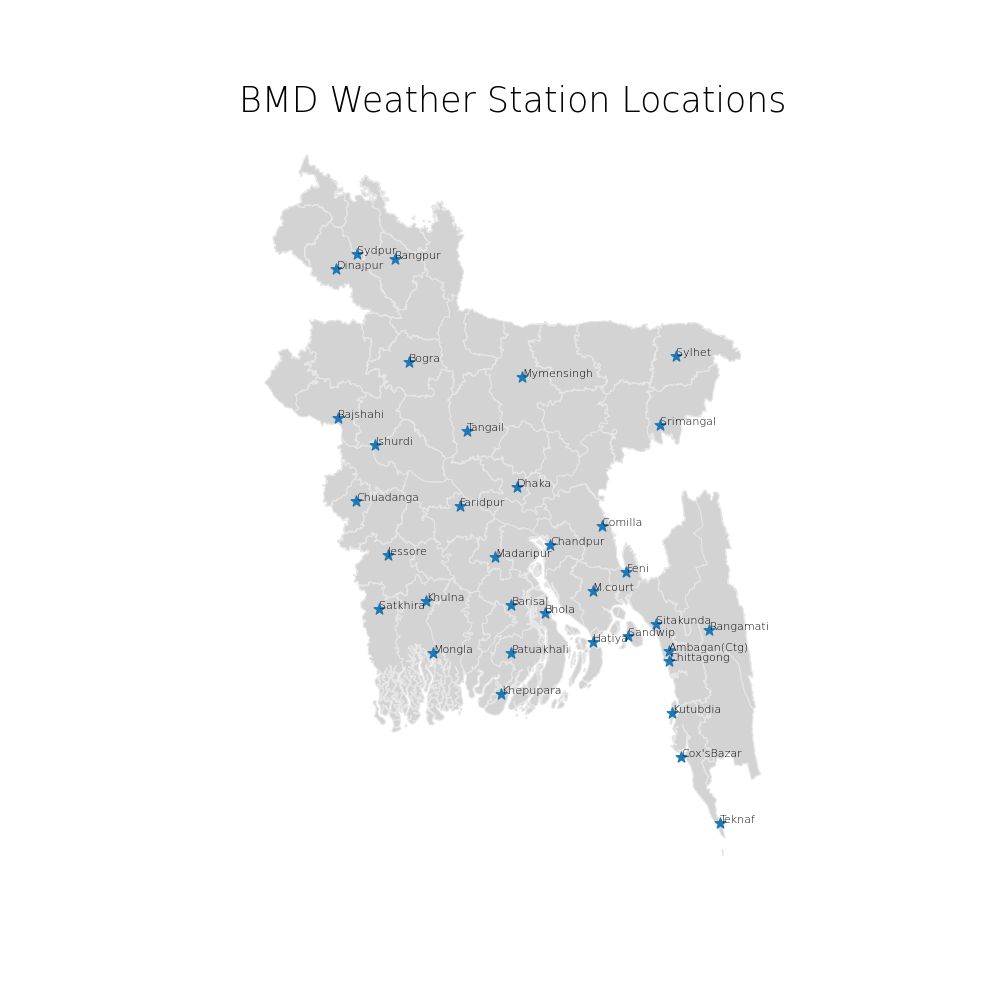
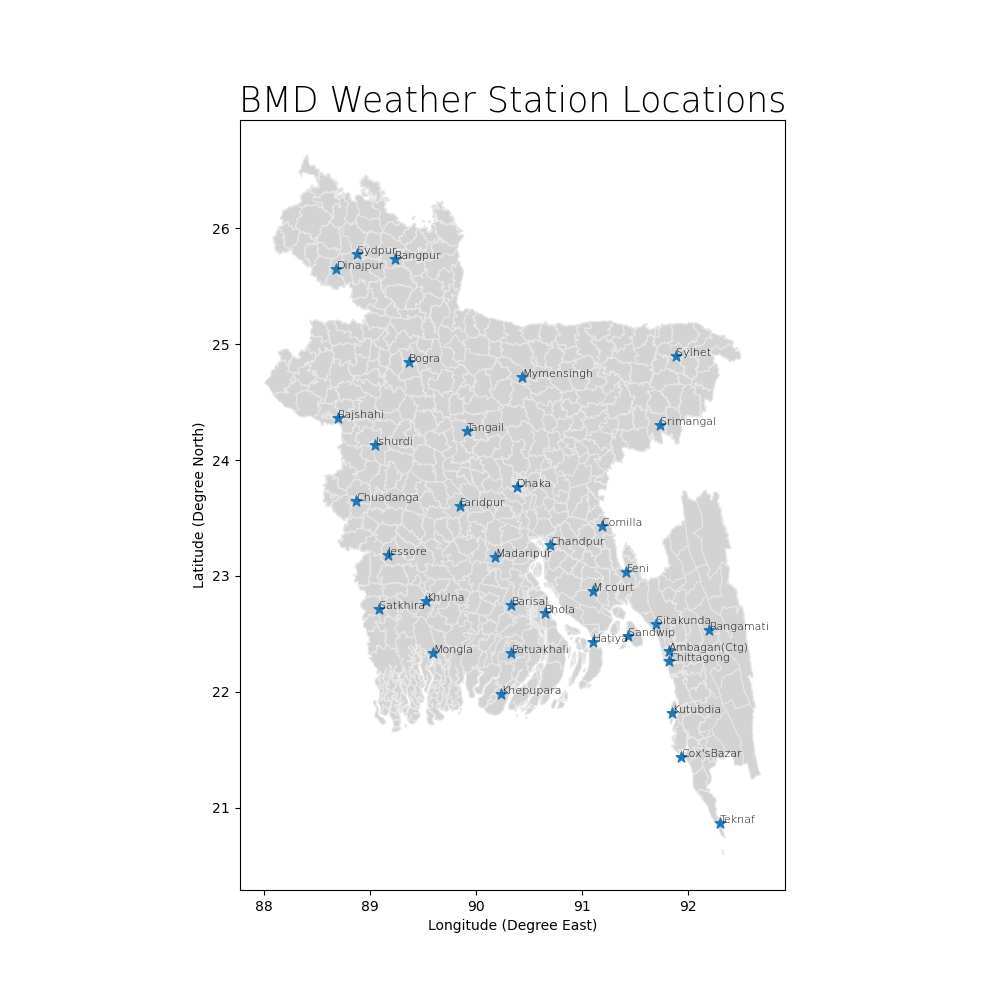
IDW

diff --git a/calculate_IDW_interpolation.py b/calculate_IDW_interpolation.py
@@ -1,0 +1,196 @@
+import numpy as np
+import matplotlib.pyplot as plt
+from decimal import Decimal
+import pandas as pd
+import seaborn as sns
+import math
+import sklearn.neighbors as skn
+
+
+def get_rmse_error(error_list):
+    sq_error = 0.0
+    if len(error_list) == 0:
+        return 0.0
+    for x in error_list:
+        sq_error += float(x)**2
+    mean_sq_error = sq_error / len(error_list)
+    root_mean_sum_error = math.sqrt(mean_sq_error)
+    # print(f"Mean sq error is {mean_sq_error} and RMSE is {root_mean_sum_error}")
+    return root_mean_sum_error
+
+
+def find_nearest_station(st_target, st_all):
+    st_nearest = []
+    for t in st_target:
+        nearest = ''
+        nearest_val = 99999.0
+        st_target_entry = st_all.loc[st_all['Location'] == t]
+        st_target_entry_index = st_all.loc[st_all['Location'] == t].index
+        st_target_removed = st_all.drop(st_target_entry_index)
+        for i in range(st_target_removed.shape[0]):
+            t_lat = float(st_target_entry.iloc[0, 2])
+            t_lon = float(st_target_entry.iloc[0, 3])
+            r_lat = float(st_target_removed.iloc[i, 2])
+            r_lon = float(st_target_removed.iloc[i, 3])
+            dist = (t_lat - r_lat)**2 + (t_lon - r_lon)**2
+            if dist < nearest_val:
+                nearest_val = dist
+                nearest = st_target_removed.iloc[i, 1]
+        st_nearest.append(nearest)
+    return st_nearest
+
+
+def get_error_df(st_target_location, st_nearest, temp_info_df):
+    # start calculating errors
+    error_flat_t = []
+    error_all_year_t = []
+    error_year_t = []
+    error_month_t = []
+    # Considering only one target
+    for i, t in enumerate(st_target_location):
+        st_t_df = temp_info_df.loc[temp_info_df['Station'] == t]
+        st_nearest_t = st_nearest[i]
+        st_nearest_t_df = temp_info_df.loc[temp_info_df['Station'] == st_nearest_t]
+
+        for r in range(min(st_t_df.shape[0], st_nearest_t_df.shape[0])):
+            if r > 0 and r % 12 == 0:
+                error_all_year_t.append(error_year_t)
+                error_year_t = []
+            for c in range(3, 34):
+                t_val = st_t_df.iloc[r, c]
+                n_val = st_nearest_t_df.iloc[r, c]
+                is_not_null = not (pd.isnull(t_val) or pd.isnull(n_val))
+                is_not_star = True
+                if t_val == "****" or n_val == "****":
+                    is_not_star = False
+                if is_not_star and is_not_null:
+                    error = float(Decimal(t_val) - Decimal(n_val))
+                    # print(f"temp in {st_target_location[i]} is {t_val} and temp in {st_nearest[i]} is {n_val}")
+                    # print(f"temp Error is {error}")
+                    error_month_t.append(error)
+                    error_flat_t.append(error)
+            error_year_t.append(error_month_t)
+            error_month_t = []
+        error_all_year_t.append(error_year_t)
+        error_year_t = []
+
+    return error_flat_t, error_all_year_t
+
+
+def get_year_day_error(day_colnames, year_indexes, error_all_year_t):
+    day_error_df = pd.DataFrame(np.nan, index=year_indexes, columns=day_colnames)
+    d_max = -999999
+    d_min = 9999999
+    for i, y in enumerate(error_all_year_t):
+        day_c = 0
+        for j, m in enumerate(y):
+            for d in m:
+                day_error_df.iloc[i, day_c] = d
+                day_c += 1
+                if d > d_max:
+                    d_max = d
+                if d < d_min:
+                    d_min = d
+    return day_error_df, d_max, d_min
+
+
+def get_year_month_error(month_colnames, year_indexes, error_all_year_t ):
+    month_error_df = pd.DataFrame(np.nan, index=year_indexes, columns=month_colnames)
+    m_max = -999999
+    m_min = 9999999
+    for i, y in enumerate(error_all_year_t):
+        day_c = 0
+        for j, m in enumerate(y):
+            month_error_df.iloc[i, j] = get_rmse_error(m)
+            if month_error_df.iloc[i, j] > m_max:
+                m_max = month_error_df.iloc[i, j]
+            if month_error_df.iloc[i, j] < m_min:
+                m_min = month_error_df.iloc[i, j]
+    return month_error_df, m_max, m_min
+
+
+def get_target_data(target, weather_stations):
+    for i, x in enumerate(weather_stations["Location"]):
+        if target[0] == x:
+            return weather_stations.iloc[i].values.flatten().tolist()
+
+
+def calculate_dist_from_target(target_data, wst_df):
+    dist = []
+    for j in range(wst_df.shape[0]):
+        t_lat = target_data[2]
+        t_lon = target_data[3]
+        n_lat = wst_df.iloc[j, 2]
+        n_lon = wst_df.iloc[j, 3]
+        distance = math.sqrt(((t_lat - n_lat) ** 2) + ((t_lon - n_lon) ** 2))
+        dist_row = [target_data[1], wst_df.iloc[j, 1], distance]
+        dist.append(dist_row)
+    return dist
+
+
+def get_k_neighbours(dist_from_target_to_all, neighbours_num):
+    k_neighbours = []
+    temp_df = pd.DataFrame(dist_from_target_to_all, columns=["Source", "Destination", "Distance"])
+    temp_df = temp_df.sort_values("Distance")
+    for j in range(1, neighbours_num+1):
+        k_neighbours.append(temp_df.iloc[j][1])
+    return k_neighbours
+
+
+def get_k_neighbours_from_target(target, weather_stations, neighbour_num):
+    k_neighbours_target = []
+    target_data = [get_target_data(target, weather_stations)]
+    dist_all_st_from_target = calculate_dist_from_target(target_data[0], weather_stations)
+    k_neighbours = get_k_neighbours(dist_all_st_from_target, neighbour_num)
+    k_neighbours_target.append(k_neighbours)
+    return k_neighbours_target[0]
+
+
+# Load datasets and set target
+weather_station_csv = "/home/joyanta/Documents/HDSS_Documents/Weather Data Interpolation/GeoInterpolBD/data/Bmd Data/weather_station_info.csv"
+temp_info_file = '/home/joyanta/Documents/HDSS_Documents/Weather Data Interpolation/GeoInterpolBD/Bmd Data/temp_info.csv'
+bd_weather_stations = pd.read_csv(weather_station_csv)
+temp_info_df = pd.read_csv(temp_info_file, sep='\t')
+
+st_target_location = ['Khulna']
+
+neighbors_num = 5
+# Only single station is considered
+# For multiple station run a loop
+neighbours = get_k_neighbours_from_target(st_target_location, bd_weather_stations, neighbors_num)
+
+target_temp_df = temp_info_df.loc[temp_info_df['Station'] == st_target_location[0]]
+neighbours_temp_df = temp_info_df.loc[temp_info_df['Station'].isin(neighbours)]
+
+print(target_temp_df.head(5))
+print(neighbours_temp_df["Station"])
+
+# # Initialize KNN regressor
+# knn_regressor = skn.KNeighborsRegressor(n_neighbors=neighbors, weights="distance")
+#
+# Fit to data
+# knn_regressor.fit(coords_rain_train, value_rain_train)
+# neigh_dist, neigh_index = knn_regressor.kneighbors(X=bd_weather_stations.iloc[: , 2:], n_neighbors=neighbors, return_distance=True)
+# print(neigh_dist)
+# print(neigh_index)
+# st_nearest = find_nearest_station(st_target_location, bd_weather_stations)
+#
+# #get error df
+# error_flat_t, error_all_year_t = get_error_df(st_target_location, st_nearest, temp_info_df)
+#
+# # Whole dataset RMSE result
+# rmse_error = get_rmse_error(error_flat_t)
+# print(f"RMSE error: {rmse_error} for location {st_target_location[0]} interpolated from {st_nearest[0]}")
+#
+# # calculate month wise and day wise error
+# indexes = np.array(temp_info_df["Year"].drop_duplicates())
+# day_colnames = np.arange(1, 367)
+# month_colnames = ['jan', 'feb', 'mar', 'apr', 'may', 'jun', 'jul', 'aug', 'sep', 'oct', 'nov', 'dec']
+#
+# month_error_df, m_max, m_min = get_year_month_error(month_colnames, indexes, error_all_year_t)
+# day_error_df, d_max, d_min = get_year_day_error(day_colnames, indexes, error_all_year_t)
+
+# ax = sns.heatmap(month_error_df, linewidth=0.5)
+# # ax = sns.heatmap(normalized_day_error_df)
+# plt.show()
+

diff --git a/calculate_nearest_neighbour_interpolation.py b/calculate_nearest_neighbour_interpolation.py
@@ -130,8 +130,11 @@ print(f"Month: Max {m_max} Min {m_min} and spread {m_spread}")
 #         normalized_month_error_df.iloc[i, j] = (normalized_month_error_df.iloc[i, j] - m_min)/m_spread
 
 # print(normalized_month_error_df.head())
+ax = sns.heatmap(normalized_day_error_df, cmap="PiYG", center=0)
+# ax = sns.heatmap(normalized_day_error_df, linewidth=0.5)
+ax.set_title('Nearest Neighbour Daily Temperature Estimation Error \n Target: Bhola NN: Barisal', fontdict={'fontsize': '20', 'fontweight' : '3'})
+plt.savefig("daily_error_Bhola_Barishal")
 
-ax = sns.heatmap(normalized_month_error_df, linewidth=0.5)
-# ax = sns.heatmap(normalized_day_error_df)
 plt.show()
 
+# ValueError: 'PiBu' is not a valid value for name; supported values are 'Accent', 'Accent_r', 'Blues', 'Blues_r', 'BrBG', 'BrBG_r', 'BuGn', 'BuGn_r', 'BuPu', 'BuPu_r', 'CMRmap', 'CMRmap_r', 'Dark2', 'Dark2_r', 'GnBu', 'GnBu_r', 'Greens', 'Greens_r', 'Greys', 'Greys_r', 'OrRd', 'OrRd_r', 'Oranges', 'Oranges_r', 'PRGn', 'PRGn_r', 'Paired', 'Paired_r', 'Pastel1', 'Pastel1_r', 'Pastel2', 'Pastel2_r', 'PiYG', 'PiYG_r', 'PuBu', 'PuBuGn', 'PuBuGn_r', 'PuBu_r', 'PuOr', 'PuOr_r', 'PuRd', 'PuRd_r', 'Purples', 'Purples_r', 'RdBu', 'RdBu_r', 'RdGy', 'RdGy_r', 'RdPu', 'RdPu_r', 'RdYlBu', 'RdYlBu_r', 'RdYlGn', 'RdYlGn_r', 'Reds', 'Reds_r', 'Set1', 'Set1_r', 'Set2', 'Set2_r', 'Set3', 'Set3_r', 'Spectral', 'Spectral_r', 'Wistia', 'Wistia_r', 'YlGn', 'YlGnBu', 'YlGnBu_r', 'YlGn_r', 'YlOrBr', 'YlOrBr_r', 'YlOrRd', 'YlOrRd_r', 'afmhot', 'afmhot_r', 'autumn', 'autumn_r', 'binary', 'binary_r', 'bone', 'bone_r', 'brg', 'brg_r', 'bwr', 'bwr_r', 'cividis', 'cividis_r', 'cool', 'cool_r', 'coolwarm', 'coolwarm_r', 'copper', 'copper_r', 'crest', 'crest_r', 'cubehelix', 'cubehelix_r', 'flag', 'flag_r', 'flare', 'flare_r', 'gist_earth', 'gist_earth_r', 'gist_gray', 'gist_gray_r', 'gist_heat', 'gist_heat_r', 'gist_ncar', 'gist_ncar_r', 'gist_rainbow', 'gist_rainbow_r', 'gist_stern', 'gist_stern_r', 'gist_yarg', 'gist_yarg_r', 'gnuplot', 'gnuplot2', 'gnuplot2_r', 'gnuplot_r', 'gray', 'gray_r', 'hot', 'hot_r', 'hsv', 'hsv_r', 'icefire', 'icefire_r', 'inferno', 'inferno_r', 'jet', 'jet_r', 'magma', 'magma_r', 'mako', 'mako_r', 'nipy_spectral', 'nipy_spectral_r', 'ocean', 'ocean_r', 'pink', 'pink_r', 'plasma', 'plasma_r', 'prism', 'prism_r', 'rainbow', 'rainbow_r', 'rocket', 'rocket_r', 'seismic', 'seismic_r', 'spring', 'spring_r', 'summer', 'summer_r', 'tab10', 'tab10_r', 'tab20', 'tab20_r', 'tab20b', 'tab20b_r', 'tab20c', 'tab20c_r', 'terrain', 'terrain_r', 'turbo', 'turbo_r', 'twilight', 'twilight_r', 'twilight_shifted', 'twilight_shifted_r', 'viridis', 'viridis_r', 'vlag', 'vlag_r', 'winter', 'winter_r'

diff --git a/plot_bd_map.py b/plot_bd_map.py
@@ -12,7 +12,7 @@ from shapely.geometry import Polygon, mapping
 from rasterio.mask import mask
 
 admin_BD_shp_path = "/home/joyanta/Documents/HDSS_Documents/Weather Data Interpolation/GeoInterpolBD/data/bgd_adm_bbs_shp/bgd_adm_bbs_20201113_SHP/bgd_admbnda_adm0_bbs_20201113.shp"
-admin_district_shp_path = "/home/joyanta/Documents/HDSS_Documents/Weather Data Interpolation/GeoInterpolBD/data/bgd_adm_bbs_shp/bgd_adm_bbs_20201113_SHP/bgd_admbnda_adm2_bbs_20201113.shp"
+admin_district_shp_path = "/home/joyanta/Documents/HDSS_Documents/Weather Data Interpolation/GeoInterpolBD/data/bgd_adm_bbs_shp/bgd_adm_bbs_20201113_SHP/bgd_admbnda_adm3_bbs_20201113.shp"
 weather_station_csv = "/home/joyanta/Documents/HDSS_Documents/Weather Data Interpolation/GeoInterpolBD/data/Bmd Data/weather_station_info.csv"
 bd_plot_locations = gpd.read_file(admin_district_shp_path)
 bd_plot_country = gpd.read_file(admin_BD_shp_path)
@@ -20,7 +20,7 @@ bd_weather_stations = pd.read_csv(weather_station_csv)
 print(bd_plot_locations.columns)
 print(bd_plot_locations.shape)
 print(bd_weather_stations.columns)
-print(bd_weather_stations.shape)
+print(f"Number of weather stations {bd_weather_stations.shape}")
 print(f"BD ADMIN CRS {bd_plot_locations.crs}")
 
 # create figure and axes for Matplotlib
@@ -29,7 +29,7 @@ fig, ax = plt.subplots(1, 1, figsize=(10, 10))
 station_color = ListedColormap('blue')
 map_color = ListedColormap('lightgrey')
 # create map
-bd_plot_locations.plot(column='ADM0_EN', cmap=map_color, linewidth=0.8, ax=ax, edgecolor='.9')
+bd_plot_locations.plot(cmap=map_color, linewidth=0.8, ax=ax, edgecolor='.9')
 # bd_plot_elev.plot(column='ELEV_M', linewidth=0.8, ax=ax, edgecolor='0.8', legend=True, cax=cax)
 # bd_plot_locations.geometry.boundary.plot(color=None, edgecolor='k', linewidth=0.8, ax=ax) #Use your second dataframe
 plt.scatter(x=bd_weather_stations["Longitude"], y=bd_weather_stations["Latitude"], marker="*", s=64, cmap=station_color)
@@ -37,8 +37,12 @@ plt.scatter(x=bd_weather_stations["Longitude"], y=bd_weather_stations["Latitude"
 for i, txt in enumerate(bd_weather_stations["Location"]):
     plt.annotate(txt, (bd_weather_stations["Longitude"][i], bd_weather_stations["Latitude"][i]), fontsize=8, fontweight=3)
 # remove the axis
-ax.axis('off')
+# ax.axis('off')
 # add a title
 ax.set_title('BMD Weather Station Locations', fontdict={'fontsize': '25', 'fontweight' : '3'})
+
+ax.set_ylabel('Latitude (Degree North)')
+ax.set_xlabel('Longitude (Degree East)')
+
 plt.savefig("bd_weather_station_locations")
 plt.show()

diff --git a/generate_thiessen_polygons.py b/generate_thiessen_polygons.py
@@ -40,6 +40,8 @@ bd_weather_stations = bd_weather_stations.sort_values(by=["Longitude"], ascendin
 plt.scatter(x=bd_weather_stations["Longitude"], y=bd_weather_stations["Latitude"], marker="*", s=64, edgecolors="k")
 # for i, txt in enumerate(bd_weather_stations["Location"]):
 #     plt.annotate(txt, (bd_weather_stations["Longitude"][i], bd_weather_stations["Latitude"][i]), fontsize=8, fontweight=3)
-
+ax.set_ylabel('Latitude (Degree North)')
+ax.set_xlabel('Longitude (Degree East)')
+plt.savefig("theissen_polygons")
 
 plt.show()
